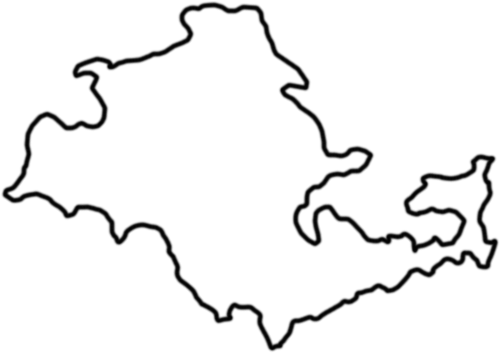
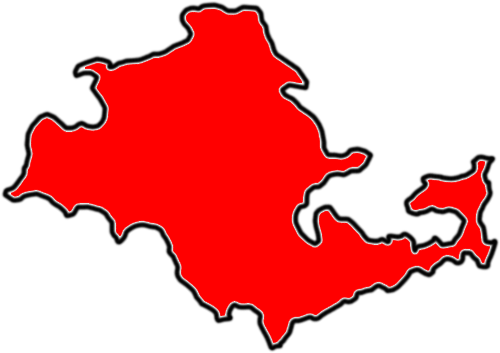
added the ability to click countries

diff --git a/main.py b/main.py
@@ -142,7 +142,7 @@ class UI:
                     running = False
                     return
 
-                if event.type == pygame.MOUSEBUTTONDOWN and event.button == 1:
+                if event.type == pygame.MOUSEBUTTONDOWN:
                     if areaPlayBtn.collidepoint(event.pos):
                         self.current_page = self.game
                         change_music(current_path + '/assets/musicBackground.mp3')
@@ -176,7 +176,7 @@ class UI:
                                                                     (screen.get_width(), screen.get_height()))
                         self.fullscreen = True
 
-            fps.render(screen)
+            # fps.render(screen) # uncomment for debugging
             pygame.display.flip()
 
     def menu_settings(self):
@@ -185,11 +185,11 @@ class UI:
         while 1:
             dt = clock.tick(165) * 0.001  # limit fps to 165 in game
 
-            areaAudioBtn = pygame.Rect(screen.get_width() - 289 - 5, 132, 289, 90)
-            screen.blit(btnAudio, (screen.get_width() - 289 - 5, 132))
+            areaAudioBtn = pygame.Rect(screen.get_width() - 289 - 15, 132, 289, 90)
+            screen.blit(btnAudio, (screen.get_width() - 289 - 15, 132))
 
-            areaBackBtn = pygame.Rect(screen.get_width() - 289 - 5, 230, 289, 90)
-            screen.blit(btnBack, (screen.get_width() - 289 - 5, 230))
+            areaBackBtn = pygame.Rect(screen.get_width() - 289 - 15, 230, 289, 90)
+            screen.blit(btnBack, (screen.get_width() - 289 - 15, 230))
 
             areaSettingsBtn = pygame.Rect(screen.get_width() - 144 - 10, 10, 144,
                                           122)  # offset 10px from the edge of the screen
@@ -197,9 +197,9 @@ class UI:
 
             cursor_pos = pygame.mouse.get_pos()
             if areaAudioBtn.collidepoint(cursor_pos):
-                screen.blit(btnAudioHover, (screen.get_width() - 289 - 5, 132))
+                screen.blit(btnAudioHover, (screen.get_width() - 289 - 15, 132))
             elif areaBackBtn.collidepoint(cursor_pos):
-                screen.blit(btnBackHover, (screen.get_width() - 289 - 5, 230))
+                screen.blit(btnBackHover, (screen.get_width() - 289 - 15, 230))
             elif areaSettingsBtn.collidepoint(cursor_pos):
                 screen.blit(btnSettingsHover, (screen.get_width() - 144 - 10, 10))
 
@@ -208,7 +208,7 @@ class UI:
                     running = False
                     return
 
-                if event.type == pygame.MOUSEBUTTONDOWN and event.button == 1:
+                if event.type == pygame.MOUSEBUTTONDOWN:
                     if areaAudioBtn.collidepoint(event.pos):
                         volume = mixer.music.get_volume()
                         if volume > 0:
@@ -253,27 +253,30 @@ class UI:
             """
             render only the button area, to improve performance and reduce unnecessary rendering
             """
-            pygame.draw.rect(screen, (0, 0, 0, 255), pygame.Rect(0, 0, 100, 25))  # prevents FPS values overlapping
-            fps.render(screen)
+            # pygame.draw.rect(screen, (0, 0, 0, 255), pygame.Rect(0, 0, 100, 25))  # prevents FPS values overlapping
+            # fps.render(screen) # uncomment for debugging
             pygame.display.update(pygame.Rect(0, 0, 100, 25))
-            pygame.display.update(pygame.Rect(screen.get_width() - 289 - 10, 0, 304, 322))
+            pygame.display.update(pygame.Rect(screen.get_width() - 289 - 10, 0, 304, 332))
 
     def game(self):
         global running, screen
+
+        c1 = pygame.image.load(current_path + '/assets/country1.png').convert_alpha()
+        c2 = pygame.image.load(current_path + '/assets/country2.png').convert_alpha()
 
         while 1:
             screen.fill("black")
             dt = clock.tick(165) * 0.001  # limit fps to 165 in game
 
             # insert game logic here
-            redCountry = pygame.rect.Rect(100, 100, 100, 100)
-            pygame.draw.rect(screen, "red", redCountry)
 
-            greenCountry = pygame.rect.Rect(300, 100, 100, 100)
-            pygame.draw.rect(screen, "green", greenCountry)
+            c1_pos = (100, 200)
+            c1_mask = pygame.mask.from_surface(c1)
+            screen.blit(c1, c1_pos)
 
-            blueCountry = pygame.rect.Rect(500, 100, 100, 100)
-            pygame.draw.rect(screen, "blue", blueCountry)
+            c2_pos = (500, 400)
+            c2_mask = pygame.mask.from_surface(c2)
+            screen.blit(c2, c2_pos)
 
             areaSettingsBtn = pygame.Rect(screen.get_width() - 144 - 10, 10, 144,
                                           122)  # offset 10px from the edge of the screen
@@ -294,7 +297,6 @@ class UI:
                 running = False
                 return
 
-            # flip() the display to put your work on screen
             fps.render(screen)
             ui.render(screen)
 
@@ -303,17 +305,27 @@ class UI:
                     running = False
                     return
                 
-                if event.type == pygame.MOUSEBUTTONDOWN and event.button == 1:
-                    if redCountry.collidepoint(cursor_pos) and pygame.MOUSEBUTTONDOWN:
-                        print('clicked red')
-                    elif blueCountry.collidepoint(cursor_pos) and pygame.MOUSEBUTTONDOWN:
-                        print('clicked blue')
-                    elif greenCountry.collidepoint(cursor_pos) and pygame.MOUSEBUTTONDOWN:
-                        print('clicked green')
+                if event.type == pygame.MOUSEBUTTONDOWN:
+                    """
+                    if you are reading this i apologise in advance
+                    there must be about 50 better ways of doing
+                    the exact same thing
+                    """
+                    try:
+                        if c1_mask.get_at((event.pos[0] - c1_pos[0], event.pos[1] - c1_pos[1])):
+                            print('clicked {country 1}')
+                    except IndexError:
+                        pass # ignore the exception :skull: :skull:
+
+                    try:
+                        if c2_mask.get_at((event.pos[0] - c2_pos[0], event.pos[1] - c2_pos[1])):
+                            print('clicked {country 2}')
+                    except IndexError:
+                        pass # ignore the exception :skull: :skull:
 
                     if areaSettingsBtn.collidepoint(event.pos):
-                        self.current_page = self.game_settings
-                        return
+                            self.current_page = self.game_settings
+                            return
 
                 if event.type == pygame.KEYDOWN and event.key == self.fullscreen_key:
                     if self.fullscreen:
@@ -329,14 +341,13 @@ class UI:
         global screen, running
 
         while 1:
-            screen.fill('black')
             dt = clock.tick(165) * 0.001  # limit fps to 165 in game
 
-            areaAudioBtn = pygame.Rect(screen.get_width() - 289 - 5, 132, 289, 90)
-            screen.blit(btnAudio, (screen.get_width() - 289 - 5, 132))
+            areaAudioBtn = pygame.Rect(screen.get_width() - 289 - 15, 132, 289, 90)
+            screen.blit(btnAudio, (screen.get_width() - 289 - 15, 132))
 
-            areaExitBtn = pygame.Rect(screen.get_width() - 289 - 5, 230, 289, 90)
-            screen.blit(btnExit, (screen.get_width() - 289 - 5, 230))
+            areaExitBtn = pygame.Rect(screen.get_width() - 289 - 15, 230, 289, 90)
+            screen.blit(btnExit, (screen.get_width() - 289 - 15, 230))
 
             areaSettingsBtn = pygame.Rect(screen.get_width() - 144 - 10, 10, 144,
                                           122)  # offset 10px from the edge of the screen
@@ -344,9 +355,9 @@ class UI:
 
             cursor_pos = pygame.mouse.get_pos()
             if areaAudioBtn.collidepoint(cursor_pos):
-                screen.blit(btnAudioHover, (screen.get_width() - 289 - 5, 132))
+                screen.blit(btnAudioHover, (screen.get_width() - 289 - 15, 132))
             elif areaExitBtn.collidepoint(cursor_pos):
-                screen.blit(btnExitHover, (screen.get_width() - 289 - 5, 230))
+                screen.blit(btnExitHover, (screen.get_width() - 289 - 15, 230))
             elif areaSettingsBtn.collidepoint(cursor_pos):
                 screen.blit(btnSettingsHover, (screen.get_width() - 144 - 10, 10))
 
@@ -355,7 +366,7 @@ class UI:
                     running = False
                     return
 
-                if event.type == pygame.MOUSEBUTTONDOWN and event.button == 1:
+                if event.type == pygame.MOUSEBUTTONDOWN:
                     if areaAudioBtn.collidepoint(event.pos):
                         volume = mixer.music.get_volume()
                         if volume > 0:
@@ -383,10 +394,10 @@ class UI:
             """
             render only the button area, to improve performance and reduce unnecessary rendering
             """
-            pygame.draw.rect(screen, (0, 0, 0, 255), pygame.Rect(0, 0, 100, 25))  # prevents FPS values overlapping
-            fps.render(screen)
-            pygame.display.update(pygame.Rect(0, 0, 100, 25))
-            pygame.display.update(pygame.Rect(screen.get_width() - 289 - 10, 0, 304, 322))
+            # pygame.draw.rect(screen, (0, 0, 0, 255), pygame.Rect(0, 0, 100, 25))  # prevents FPS values overlapping
+            # fps.render(screen) # uncomment for debugging
+            # pygame.display.update(pygame.Rect(0, 0, 100, 25))
+            pygame.display.update(pygame.Rect(screen.get_width() - 289 - 10, 0, 304, 332))
 
 
 fps = FPS()
